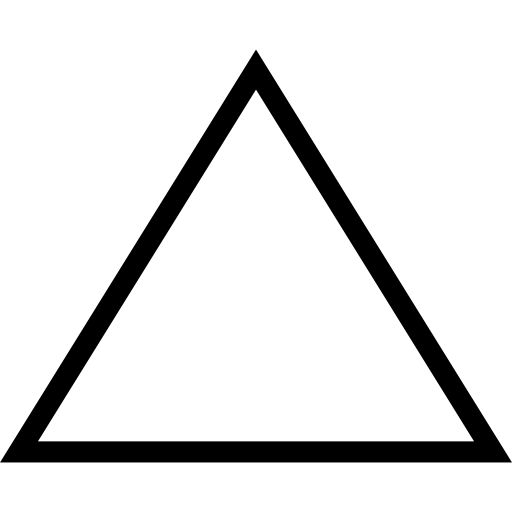
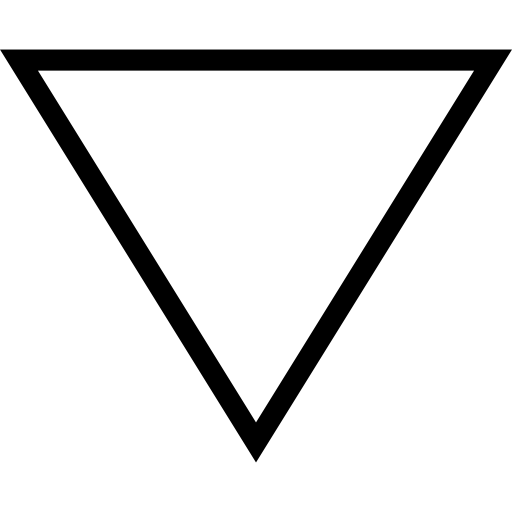
Testing postlist css

Changed region(s): [[0.0, 0.0938, 1.0, 0.9062]]

diff --git a/client/src/index.css b/client/src/index.css
@@ -35,6 +35,17 @@ button {
   text-transform: none;  
 }
 
+.talanoa {
+  margin-top: 20%;
+}
+
+.talanoa div span {
+  background-color: lightgreen;
+  padding: 5%;
+  border-radius: 25%;
+  overflow-wrap: normal;
+}
+
 .underline {
   background-repeat: repeat-x;
 }
@@ -43,10 +54,4 @@ button {
   background-image: url("./images/triangle.png");
   background-position: 0 1.06em;
   background-size: 10px 9px;
-  color: #f2f3f8;
-  transform: rotate(180deg);
-}
-
-html {
-  line-height: 1;
 }

diff --git a/client/src/components/PostList.jsx b/client/src/components/PostList.jsx
@@ -36,10 +36,12 @@ class PostList extends React.Component {
         {console.log(this.state.posts)}
         {this.state.posts.map((post) =>
           <Post
+            className='post'
             key={post.id}
             post={post}
           />
         )}
+        <div><span>Alisa css testing.</span></div>
       </div>
     )
   }
